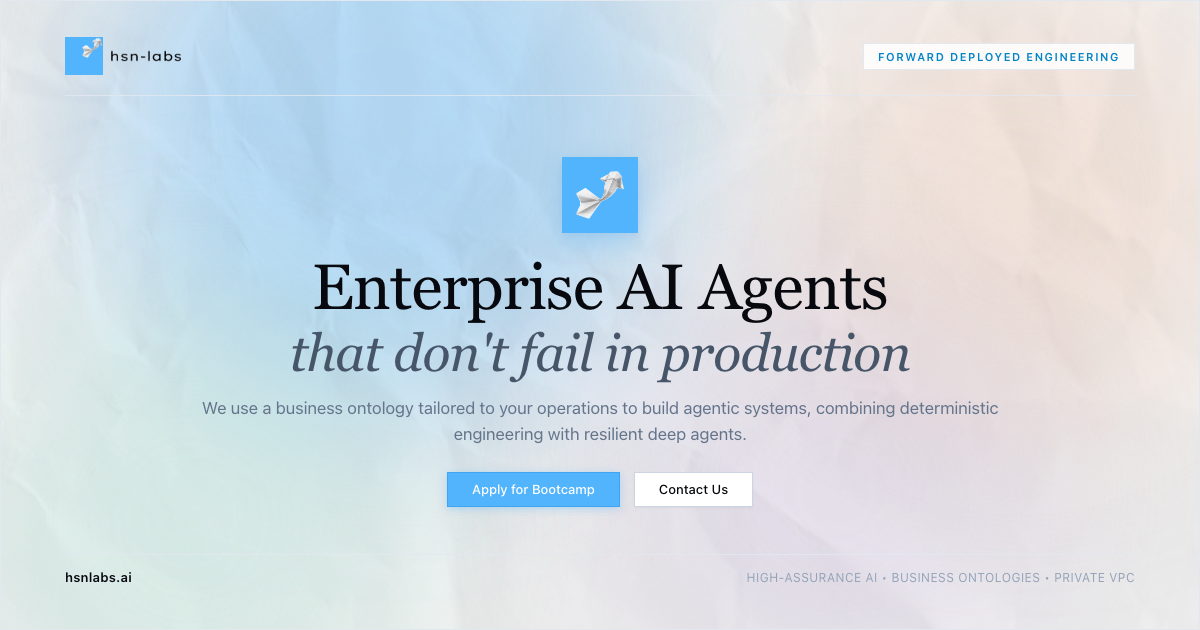
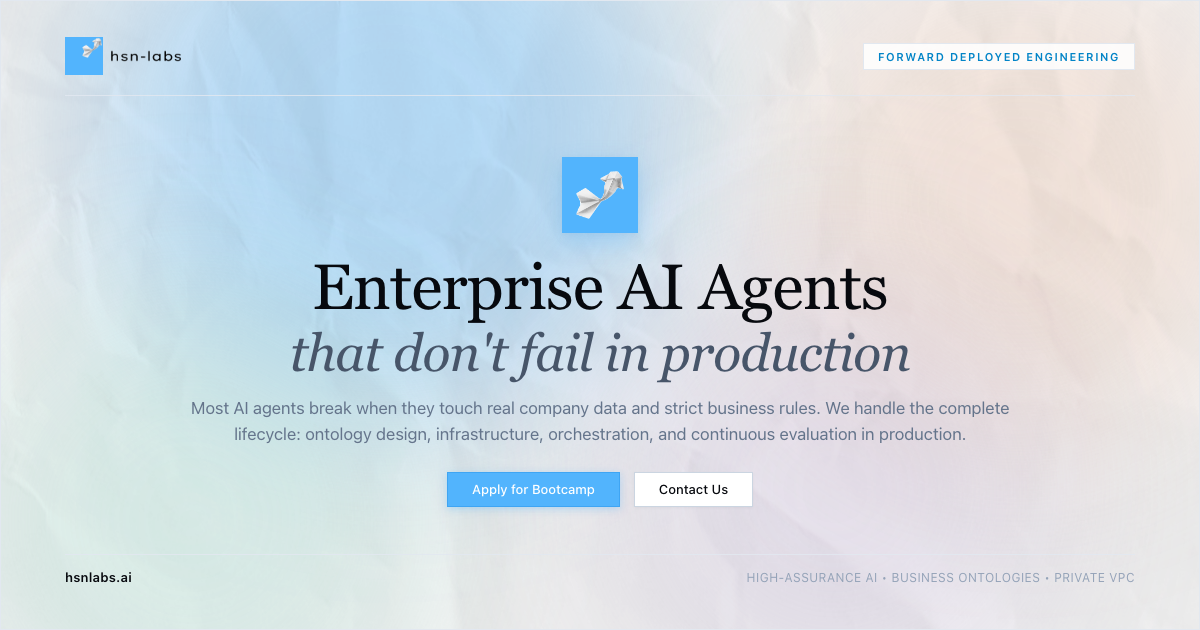
copy(hero): align subtitle with 4 ADLC lifecycle stages and plain enterprise language

Changed region(s): [[0.1542, 0.6333, 0.8325, 0.7238]]

diff --git a/index.html b/index.html
@@ -21,7 +21,7 @@
   <meta name="twitter:image" content="https://hsnlabs.ai/assets/brand/og-image.png">
 
   <link rel="canonical" href="https://hsnlabs.ai/">
-  <meta name="description" content="HSN Labs solves why AI agents fail in production through hybrid engineering, real business ontologies, and resilient deep agents for enterprise operations.">
+  <meta name="description" content="Most AI agents break on real company data and strict business rules. HSN Labs handles the complete lifecycle: ontology design, infrastructure, orchestration, and continuous evaluation in production.">
 
   <!-- Favicons -->
   <link rel="icon" type="image/x-icon" href="/assets/brand/favicons/favicon.ico">
@@ -1288,7 +1288,7 @@
       </h1>
       
       <p class="hero-sub">
-        We use a business ontology tailored to your operations to build agentic systems, combining deterministic engineering with resilient deep agents.
+        Most AI agents break when they touch real company data and strict business rules. We handle the complete lifecycle: ontology design, infrastructure, orchestration, and continuous evaluation in production.
       </p>
 
       <div class="hero-ctas">
